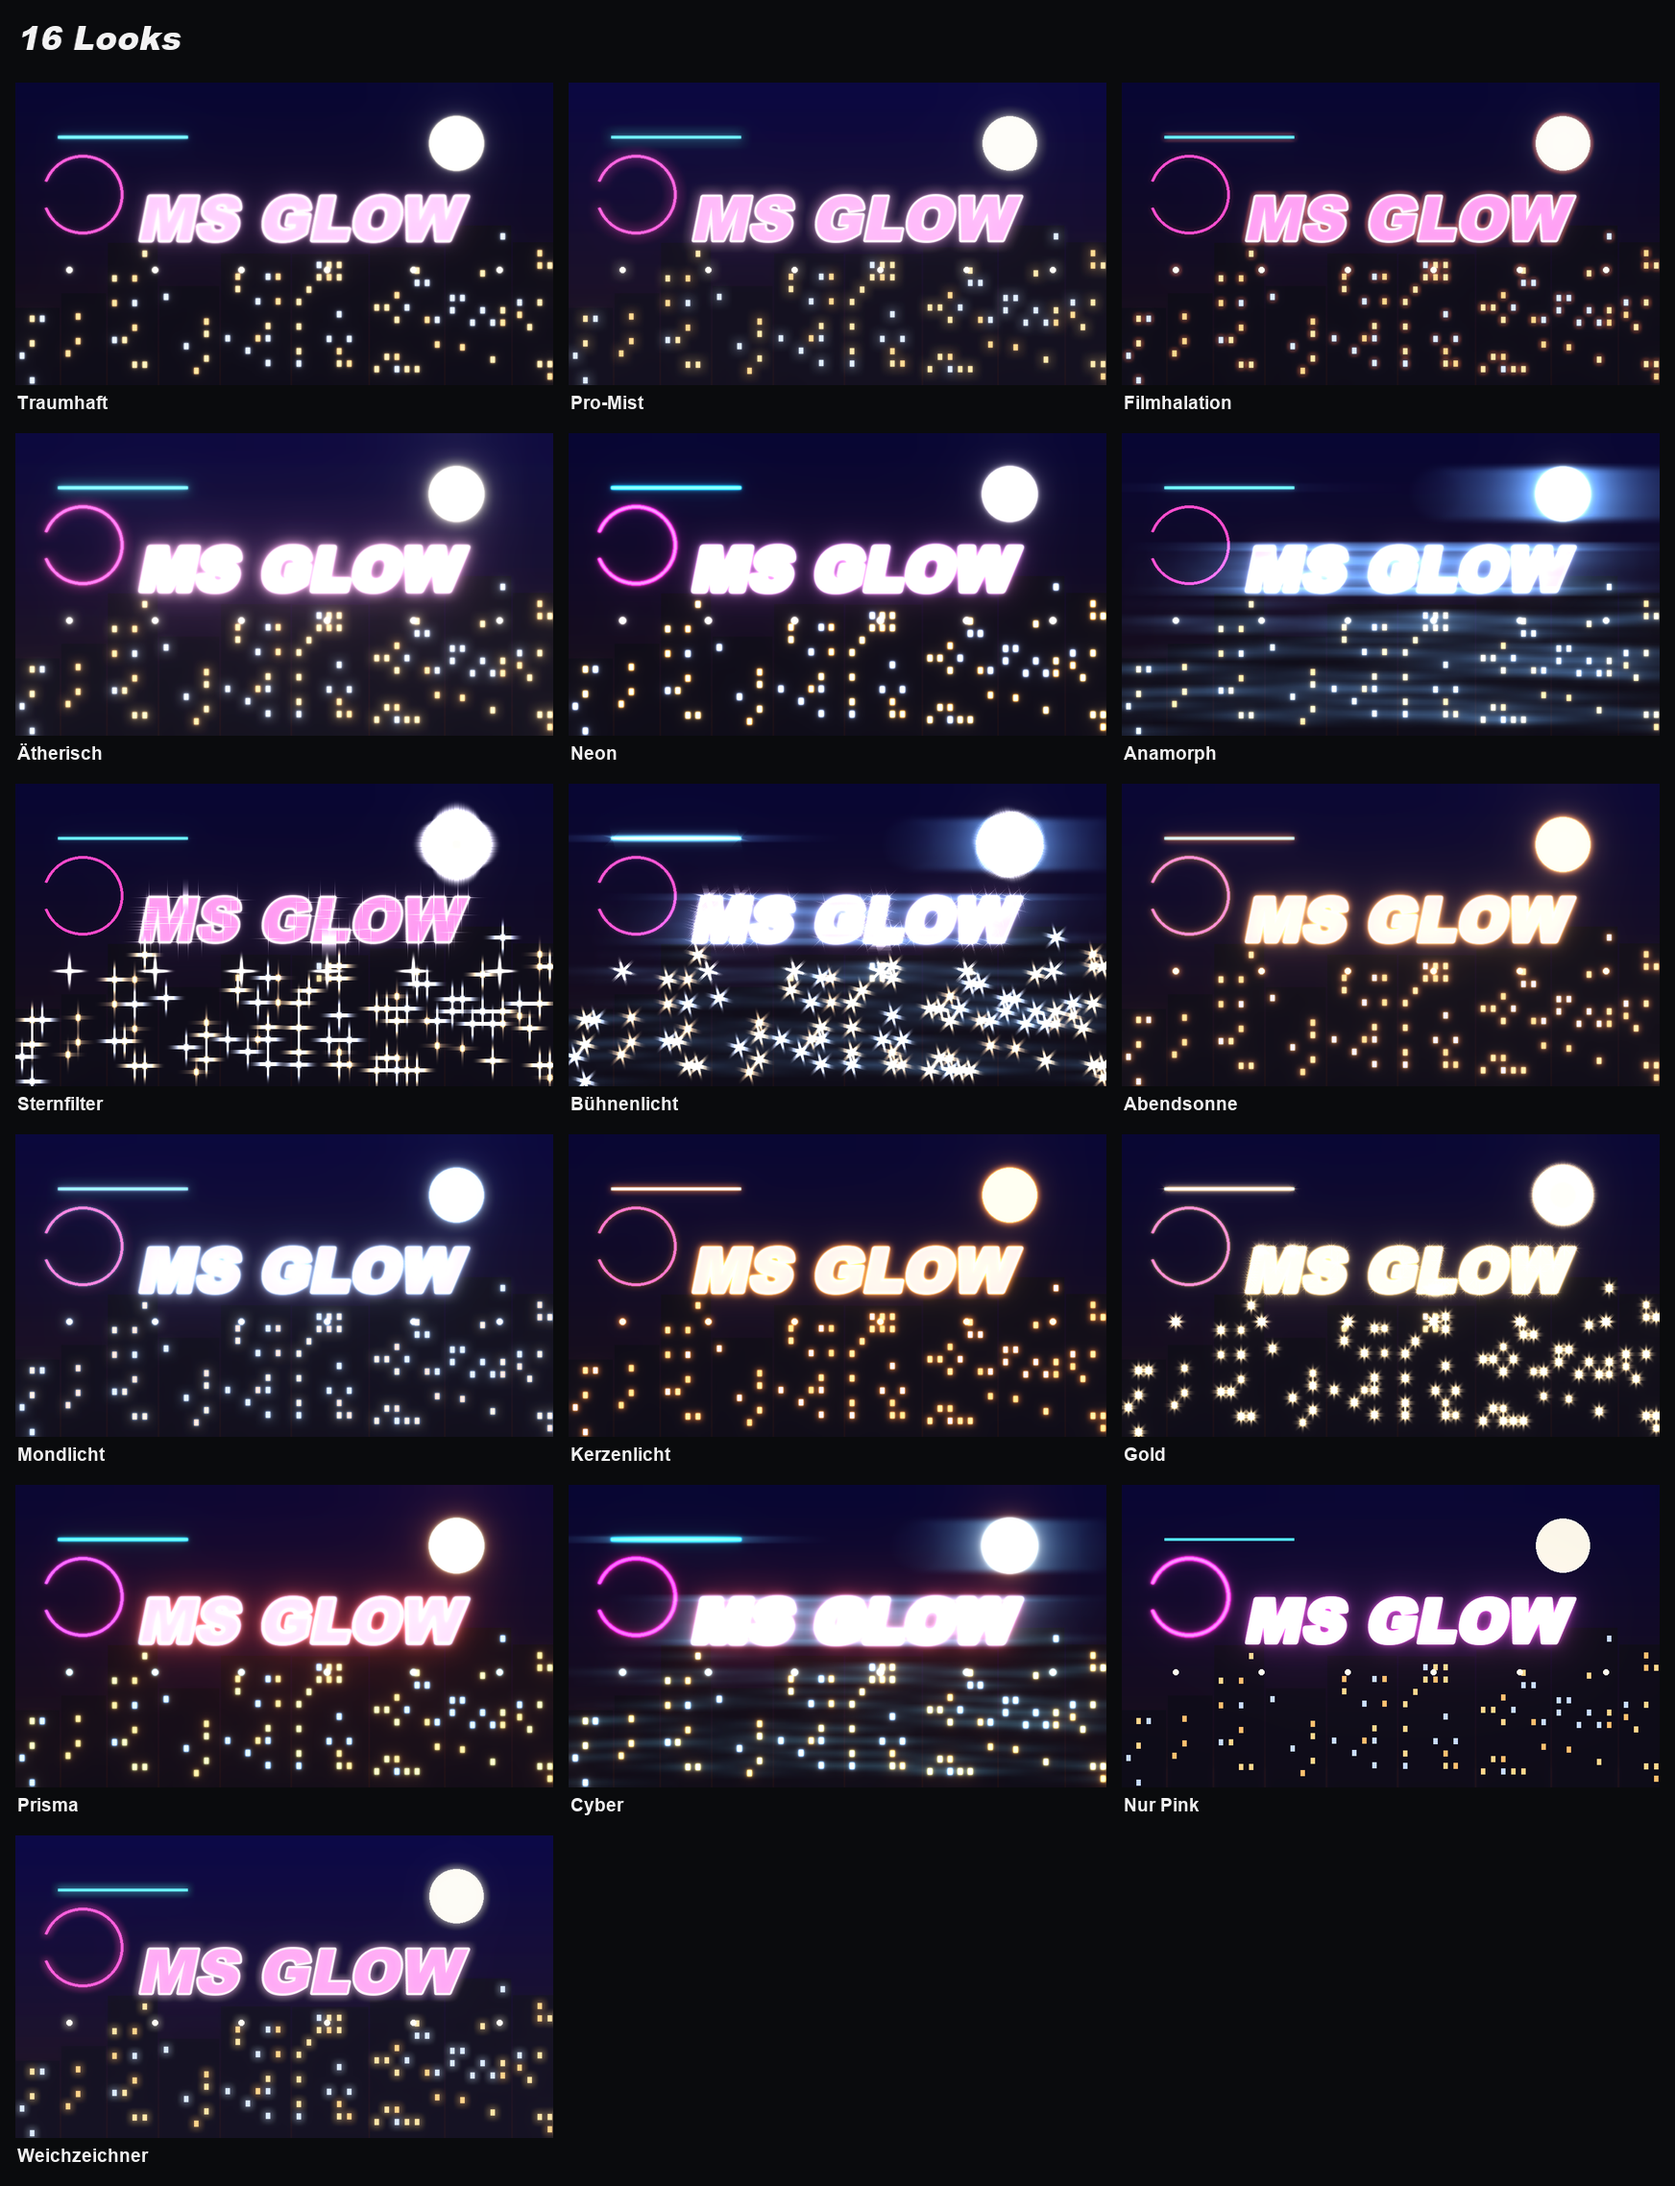
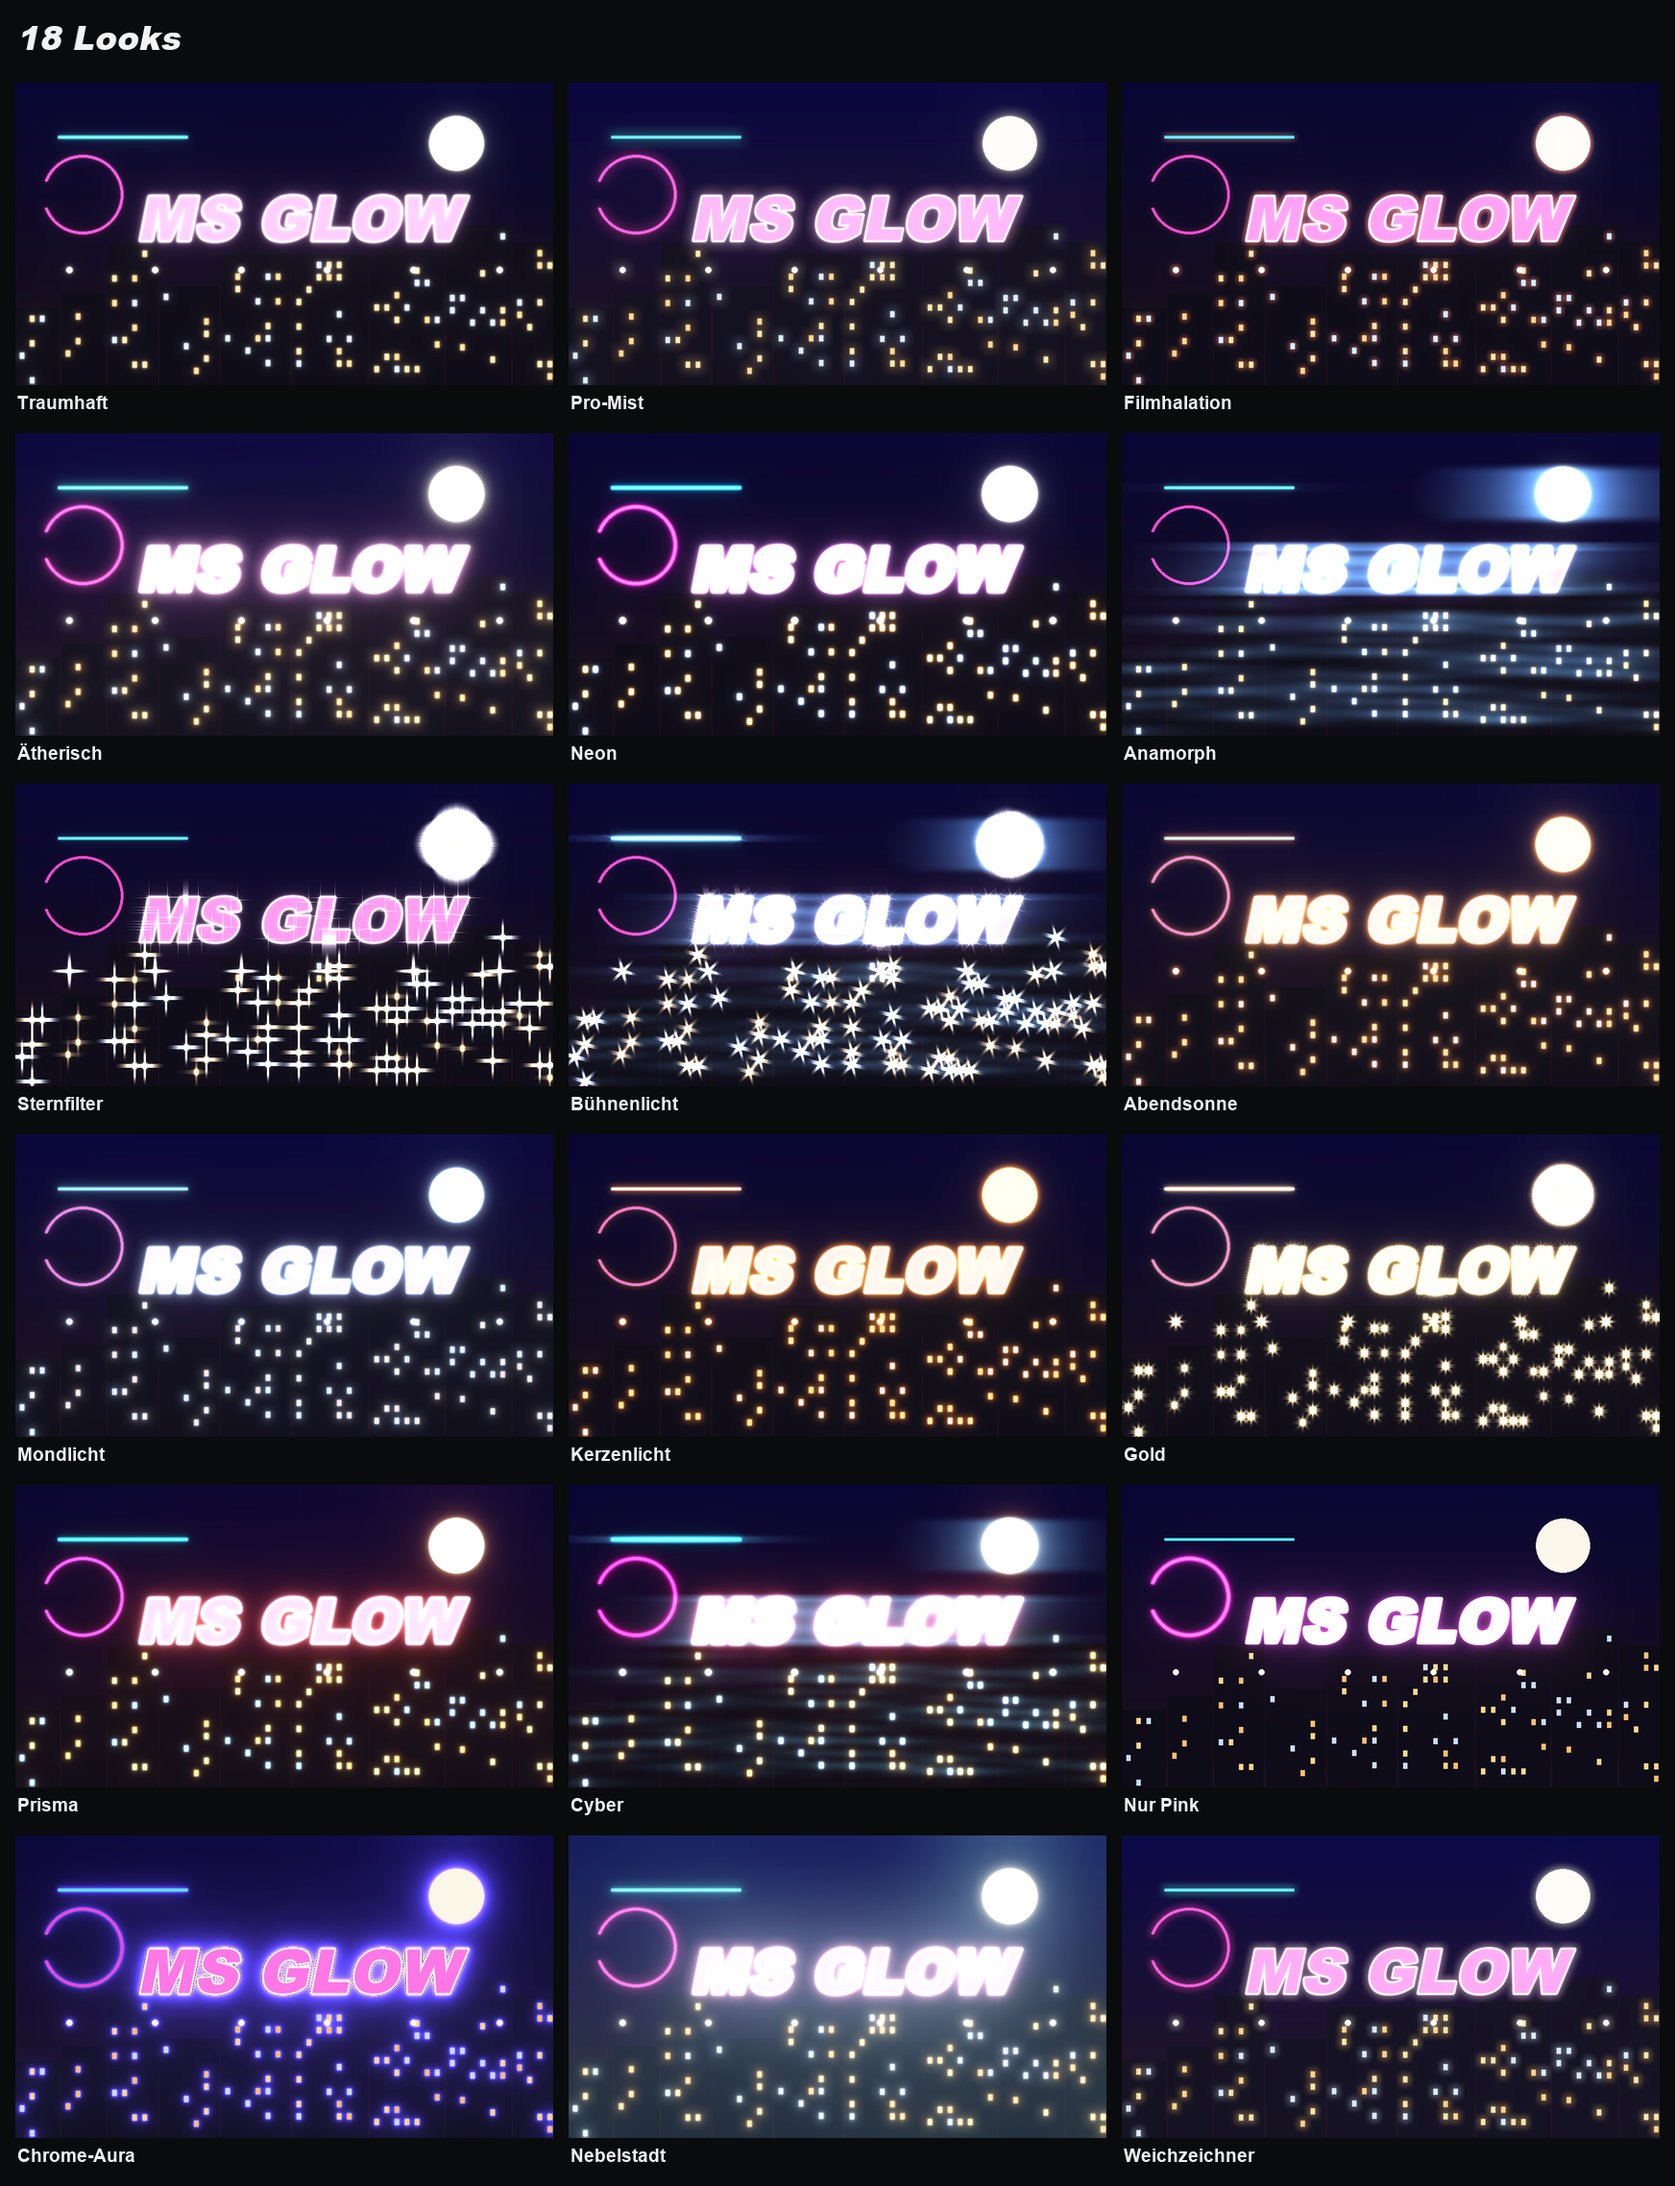
README: Aura, Dunst, 18 Looks; Bilder neu

Changed region(s): [[0.0, 0.8423, 0.9908, 0.9982]]

diff --git a/tools/make-showcase.js b/tools/make-showcase.js
@@ -46,6 +46,7 @@ sheet("effekte.png", "Die Effekte einzeln", [
   { label: "Diffusion", sub: "Pro-Mist", p: Object.assign({}, Core.DEFAULTS, only, { diffusion: 80 }) },
   { label: "Lichtstreifen", sub: "anamorph", p: Object.assign({}, Core.DEFAULTS, only, { streaks: 85, streakLength: 70 }) },
   { label: "Sterne", sub: "Sternfilter, 6 Strahlen", p: Object.assign({}, Core.DEFAULTS, only, { stars: 90, starRays: 6, starLength: 45 }) },
+  { label: "Dunst", sub: "Nebel in der Luft, Türkis", p: Object.assign({}, Core.DEFAULTS, only, { haze: 85, hazeRadius: 60, hazeTint: 65 }) },
   { label: "Prisma", sub: "Farbsäume", p: Object.assign({}, Core.DEFAULTS, { prism: 100, amount: 100, saturation: 30 }) },
   { label: "Farbbereich", sub: "nur Pink leuchtet", p: Core.presetParams("pinkonly") },
   { label: "Eigene Farbe", sub: "Mondlicht", p: Core.presetParams("moon") },

diff --git a/README.md b/README.md
@@ -4,7 +4,7 @@
 
 <p align="center">
   <b>Realistisches Leuchten für Photoshop: weicher Glow mit physikalischem Lichtabfall, Halation, Pro-Mist,
-  anamorphe Lichtstreifen und Sternfilter – für das ganze Dokument oder einzelne Ebenen, nicht-destruktiv.</b><br>
+  anamorphe Lichtstreifen, Sternfilter und Dunst – für das ganze Dokument oder einzelne Ebenen, nicht-destruktiv.</b><br>
   <sub>Photoshop 2023 (24.2) oder neuer · UXP-Panel</sub><br>
   <sub><b>MS</b> steht für <b>Morgenstern</b>: freie Photoshop-Tools · <a href="https://github.com/M0rgenst3rn/ms-distress">MS Distress</a> · <a href="https://github.com/M0rgenst3rn/ms-printer">MS Printer</a> · <a href="https://github.com/M0rgenst3rn/ms-render">MS Render</a> · <a href="https://github.com/M0rgenst3rn/ms-phase">MS Phase</a> · <b>MS Glow</b></sub>
 </p>
@@ -15,7 +15,7 @@
 
 MS Glow lässt die hellen Stellen deines Bilds leuchten, wie Licht durch eine Diffusionslinse oder auf altem
 Filmmaterial. Das Leuchten fällt wie echtes Licht ab: hell und dicht an der Lichtquelle, mit einem langen,
-weichen Ausläufer. Dazu kommen Halation, Pro-Mist, anamorphe Lichtstreifen, ein Sternfilter und Farbsäume.
+weichen Ausläufer. Dazu kommen Halation, Pro-Mist, Dunst, anamorphe Lichtstreifen, ein Sternfilter und Farbsäume.
 
 Alles wird prozedural berechnet, ohne Bilddateien. Jeder Effekt wird eine eigene Ebene, die dein Artwork nur
 aufhellt. Das Original bleibt unverändert.
@@ -26,20 +26,30 @@ aufhellt. Das Original bleibt unverändert.
 
 - **Ganzes Dokument oder einzelne Ebenen**: Beides ist nicht-destruktiv und lässt sich jederzeit entfernen
 - **Glow mit echtem Lichtabfall**: Stärke, Radius, Abfall, Kern schützen, Sättigung, Gamma und Farbe
-- **5 Effekte als eigene Ebenen**: Glow, Halation, Diffusion, Lichtstreifen und Sterne
+- **6 Effekte als eigene Ebenen**: Glow, Halation, Diffusion, Dunst, Lichtstreifen und Sterne
+- **Nur außen leuchten**: Das Objekt bleibt unverfärbt, der Schein liegt nur drumherum, z. B. eine Aura um Chrome-Schrift
 - **Nur ein Farbbereich**: z. B. nur Pink oder nur Gelb leuchten lassen
 - **Prisma**: Farbsäume wie bei einer echten Linse
-- **16 Looks** mit Vorschaubildern deines eigenen Motivs
+- **18 Looks** mit Vorschaubildern deines eigenen Motivs
 - **Vorschau** des ganzen Bilds oder als Detail in 1:1, dazu **Live** im Dokument
 - **Einstellungen in der Gruppe**: Gruppe auswählen, und das Panel lädt ihre Werte wieder
-- **Selbsttest**: 42 Prüfungen gegen das echte Photoshop-Ergebnis
+- **Selbsttest**: 47 Prüfungen gegen das echte Photoshop-Ergebnis
 
-## 16 Looks
+## 18 Looks
 
-<p align="center"><img src="docs/images/looks.png" alt="Alle 16 Looks"></p>
+<p align="center"><img src="docs/images/looks.png" alt="Alle 18 Looks"></p>
 
 Ein Klick auf einen Look setzt alle Regler. Danach bleibt jeder Wert frei einstellbar. Die Vorschaubilder im
 Panel zeigen jeden Look mit deinem eigenen Dokument oder deiner Ebene.
+
+## Aura: nur außen leuchten
+
+<p align="center"><img src="docs/images/aura.png" alt="Chrome-Schrift mit Aura"></p>
+
+Mit **Nur außen** bleibt das Objekt selbst unverändert, und das Leuchten liegt nur drumherum. Im Beispiel ist das
+eine Chrome-Schrift aus [MS Render](https://github.com/M0rgenst3rn/ms-render) mit dem Look **Chrome-Aura**: Das
+Silber bleibt silbern, der Schein ist blau-violett. Bei „Nur ausgewählte Ebene“ nimmt MS Glow genau die Form der
+Ebene, im ganzen Dokument alles, was sich deutlich vom dunklen Hintergrund abhebt.
 
 ## Die Effekte
 
@@ -50,6 +60,7 @@ Panel zeigen jeden Look mit deinem eigenen Dokument oder deiner Ebene.
 | **Glow** | Weiches Leuchten mit physikalischem Abfall | Negativ multiplizieren oder Linear abwedeln |
 | **Halation** | Rot-oranger Lichtsaum um helle Kanten, wie bei Filmmaterial | Negativ multiplizieren |
 | **Diffusion** | Nebliger Weichzeichner wie ein Pro-Mist-Filter, das ganze Bild leuchtet weich nach | Negativ multiplizieren |
+| **Dunst** | Sehr weiter Lichtschleier wie Nebel in der Luft, hebt die Schatten, mit eigener Farbe | Negativ multiplizieren |
 | **Lichtstreifen** | Lange, waagerechte Streifen an hellen Punkten, wie bei anamorphen Objektiven | Linear abwedeln |
 | **Sterne** | Sternfilter mit 4, 6 oder 8 Strahlen an einzelnen Lichtpunkten wie Lampen und Glanzlichtern | Linear abwedeln |
 
@@ -66,16 +77,18 @@ großen ein enger Hof um die Lichtquelle. So verhält sich das Leuchten wie echt
 | Bereich | Regler | Was er macht |
 |---|---|---|
 | Oben | **Gesamt-Deckkraft** | Stärke des ganzen Looks |
-| Lichtquellen | **Schwelle / Übergang / Gamma** | Ab welcher Helligkeit es leuchtet und wie weich der Übergang ist |
+| Lichtquellen | **Schwelle / Übergang / Gamma** | Ab welcher Helligkeit es leuchtet, wie weich der Übergang ist, und ob auch Mitteltöne (Gamma unter 100 %) oder nur die hellsten Stellen leuchten |
 | Lichtquellen | **Nur diese Farbe / Farbbereich** | Nur Farben nahe der gewählten leuchten, 0 % heißt alle |
 | Glow | **Stärke / Radius / Abfall** | Helligkeit, Reichweite und Verlauf des Leuchtens |
 | Glow | **Kern schützen** | Helle Flächen behalten ihre Zeichnung statt weiß zu werden |
+| Glow | **Nur außen** | Im Objekt selbst kein Glow, der Schein liegt nur drumherum |
 | Glow | **Sättigung / Prisma** | Farbigkeit des Leuchtens, Farbsäume (Rot reicht weiter als Blau) |
 | Glow | **Farbe des Lichts oder eigene Farbe / Mischmodus** | Leuchten in der Farbe der Quelle oder einer eigenen, als Negativ multiplizieren oder Linear abwedeln |
 | Film & Linse | **Halation / Radius / Farbe** | Lichtsaum um helle Kanten |
 | Film & Linse | **Diffusion / Radius** | Pro-Mist-Weichzeichner |
 | Film & Linse | **Lichtstreifen / Länge / Farbe** | Anamorphe Streifen |
 | Film & Linse | **Sterne / Strahlen-Länge / Drehung / Strahlen** | Sternfilter |
+| Dunst | **Dunst / Dunst-Weite / Färbung / Dunst-Farbe** | Nebel in der Luft, z. B. türkis wie in einer nebligen Stadt |
 
 Alle Größen beziehen sich auf die Bildhöhe. Der Look sieht deshalb bei jeder Dokumentgröße gleich aus, und
 die kleine Vorschau zeigt dasselbe wie das Ergebnis.
@@ -89,7 +102,8 @@ MS Glow           (Gruppe, Gesamt-Deckkraft)
 ├─ Lichtstreifen  Linear abwedeln
 ├─ Halation       Negativ multiplizieren
 ├─ Glow           Negativ multiplizieren (oder Linear abwedeln)
-└─ Diffusion      Negativ multiplizieren
+├─ Diffusion      Negativ multiplizieren
+└─ Dunst          Negativ multiplizieren
 ```
 Es entstehen nur die Ebenen der Effekte, die du eingeschaltet hast.
 
